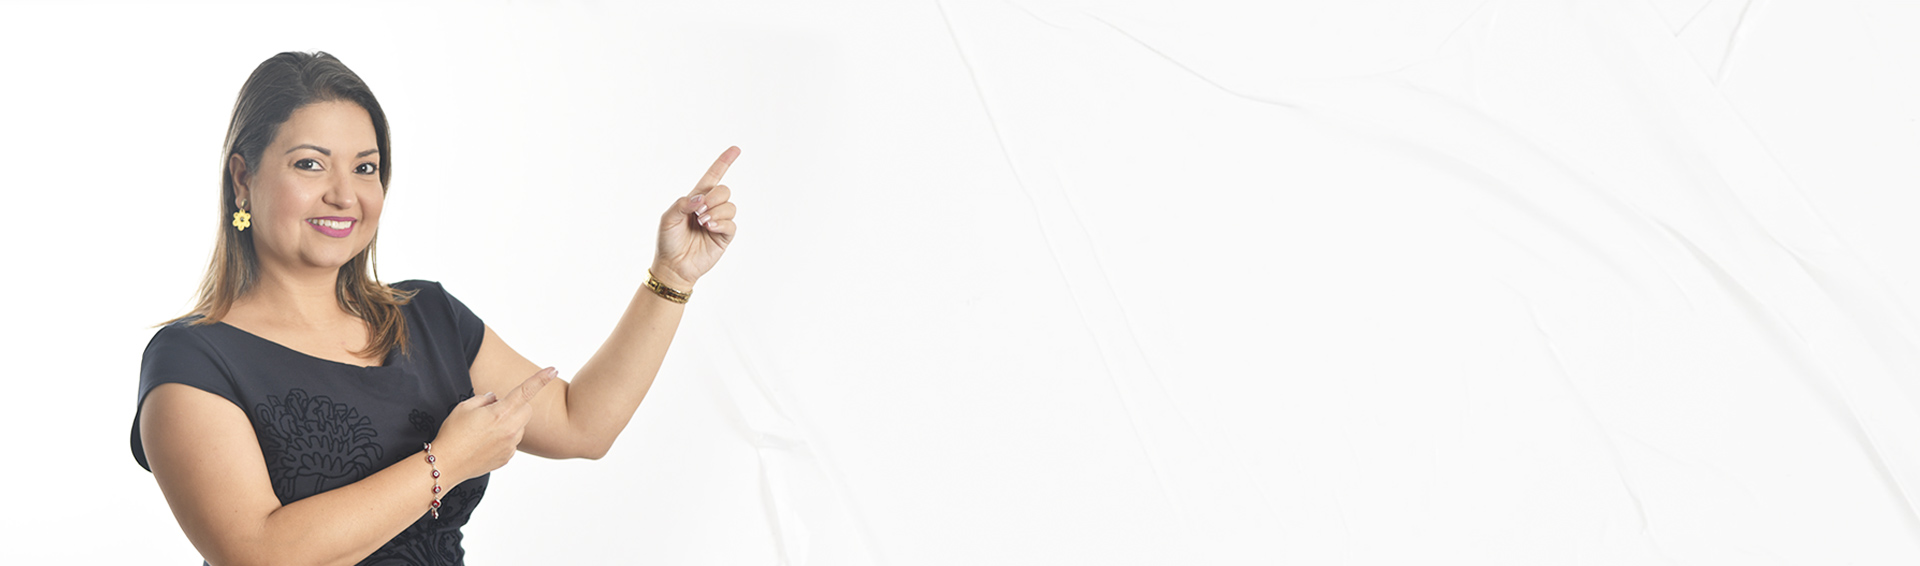
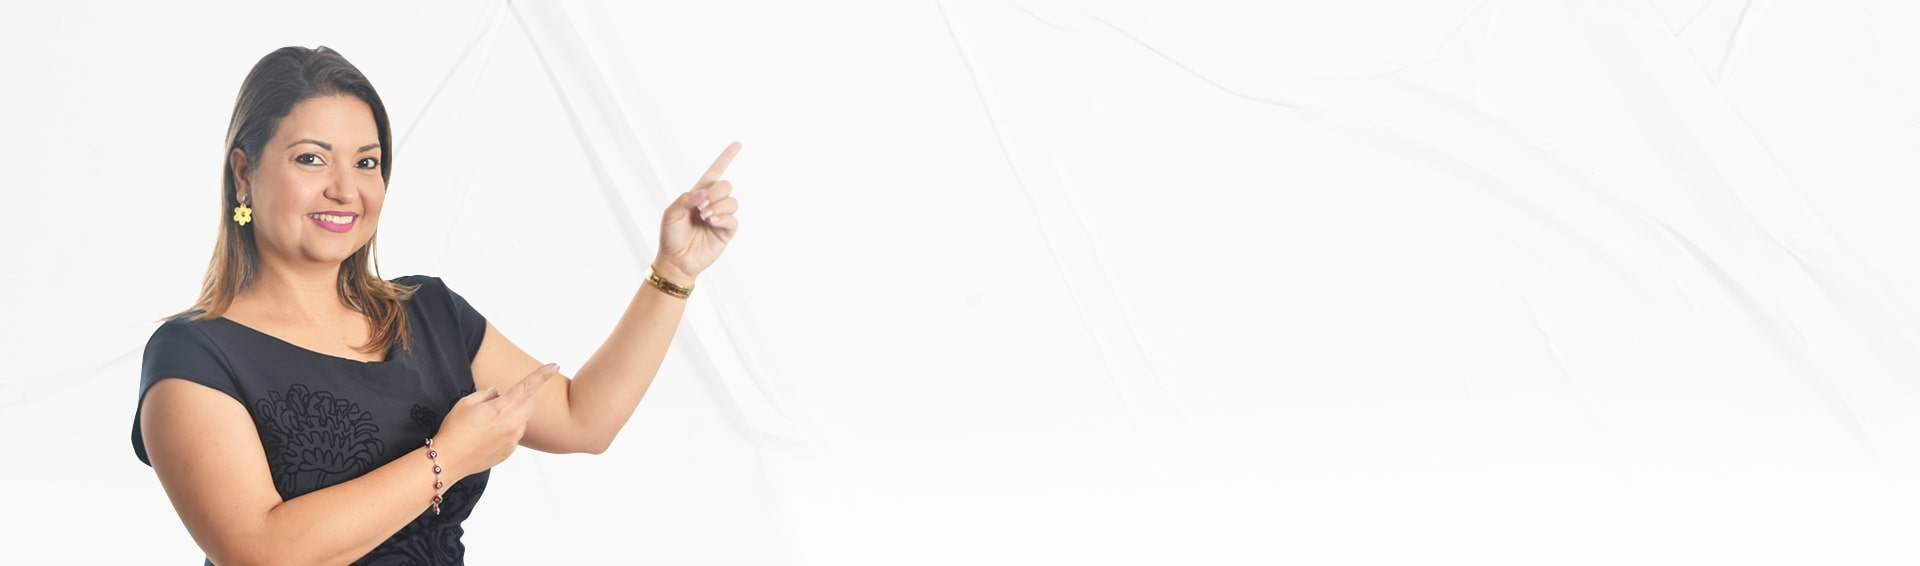
added support for square screens

diff --git a/index.html b/index.html
@@ -48,7 +48,7 @@
 
   <header class="header-index">
     <div class="row">
-      <div class="col-10 offset-1 col-lg-5 offset-lg-1 header-content-index invisible">
+      <div class="col-10 offset-1 col-lg-6 offset-lg-1 header-content-index invisible">
         <h1>
           El tiempo no espera, <br>
           <span>protegete y toma la mejor decisión</span>
@@ -62,7 +62,7 @@
   <main>
     <section class="section-message">
       <div class="row">
-        <div class="col-10 offset-1 col-lg-7 offset-lg-5 ps-lg-4">
+        <div class="col-10 offset-1 col-lg-10 offset-lg-1 col-xxl-7 offset-xxl-5 ps-xxl-4">
           <div class="d-flex justify-content-start flex-column message-container invisible">
             <p>
               "TODOS MIS CLIENTES SE CONVIERTEN <br>
@@ -194,14 +194,14 @@
       <div class="d-flex justify-content-center align-items-center flex-column">
         <h2>Testimonios</h2>
         <div class="row mt-4 invisible testimonials-container">
-          <blockquote class="col-lg-3 col-10 offset-1 offset-lg-2">
+          <blockquote class="col-xxl-3 col-lg-4 col-10 offset-1 offset-lg-1 offset-xxl-2">
             <div class="testimonial-bubble position-relative">
               <p class="mb-0 pb-4">"No solo te ofrece pólizas que se adaptan a tus necesidades, sino que también te brinda una relación de amistad con sus guías y apoyo constantemente."</p>
               <img src="/assets/img/icons/clasificacion.png" alt="testimonial clasificacion">
             </div>
             <footer class="pt-3 testimonial-author">Vanessa</footer>
           </blockquote>
-          <blockquote class="col-lg-3 col-10 offset-1 offset-lg-2">
+          <blockquote class="col-xxl-3 col-lg-4 col-10 offset-1 offset-lg-2">
             <div class="testimonial-bubble position-relative">
               <p class="mb-0 pb-4">"El verdadero ejemplo de calidad, apoyo y amistad es Maribel de Abreu. Te ofrece un servicio único y personalizado que toda persona debería hacer el esfuerzo de tener."</p>
               <img src="/assets/img/icons/clasificacion.png" alt="testimonial clasificacion">
@@ -676,7 +676,8 @@
       </div>
     </section>
     <section class="section-newsletter row">
-      <div class="form-container row p-0 col-lg-6 offset-lg-3 ">
+      <div class="form-container row p-0 col-xxl-6 offset-xxl-3 col-lg-8 offset-lg-2">
+
 
         <div class="col-4 newsletter-icon-container align-items-center justify-content-center d-lg-flex d-none">
           <img src="/assets/img/icons/mail-newsletter.svg" alt="email icon">

diff --git a/css/styles.css b/css/styles.css
@@ -550,6 +550,42 @@ nav li {
   width: 100%;
 }
 
+@media screen and (max-width: 1400px) {
+  .nav-link:link,
+  .nav-link:visited {
+    padding-bottom: 1.6rem;
+  }
+  .header-index {
+    background: url("/assets/img/BANNER-INICIO-SM.jpg");
+    background-position: 0;
+  }
+
+  .header-index h1 {
+    font-size: 3.5em;
+  }
+
+  .section-message {
+    background: url("/assets/img/FONDO-FOTO-MARIBEL-SM.jpg");
+    background-position: 100%;
+  }
+
+  .message-container {
+    padding-left: 2rem;
+  }
+  .text-me-btn:link,
+  .text-me-btn:visited {
+    margin: 0;
+  }
+  .section-perks p {
+    font-size: 1.6em;
+  }
+
+  .footer-message {
+    font-size: 1.5em;
+    line-height: 1.8rem;
+  }
+}
+
 @media screen and (max-width: 1024px) {
   .navbar-brand {
     width: 20%;

diff --git a/js/scripts.js b/js/scripts.js
@@ -12,7 +12,7 @@ $(document).ready(function () {
       },
     },
     drag: false,
-    type: "loop",
+    // type: "loop",
   }).mount();
 
   const newsletterForm = $("#mc-embedded-subscribe-form");
